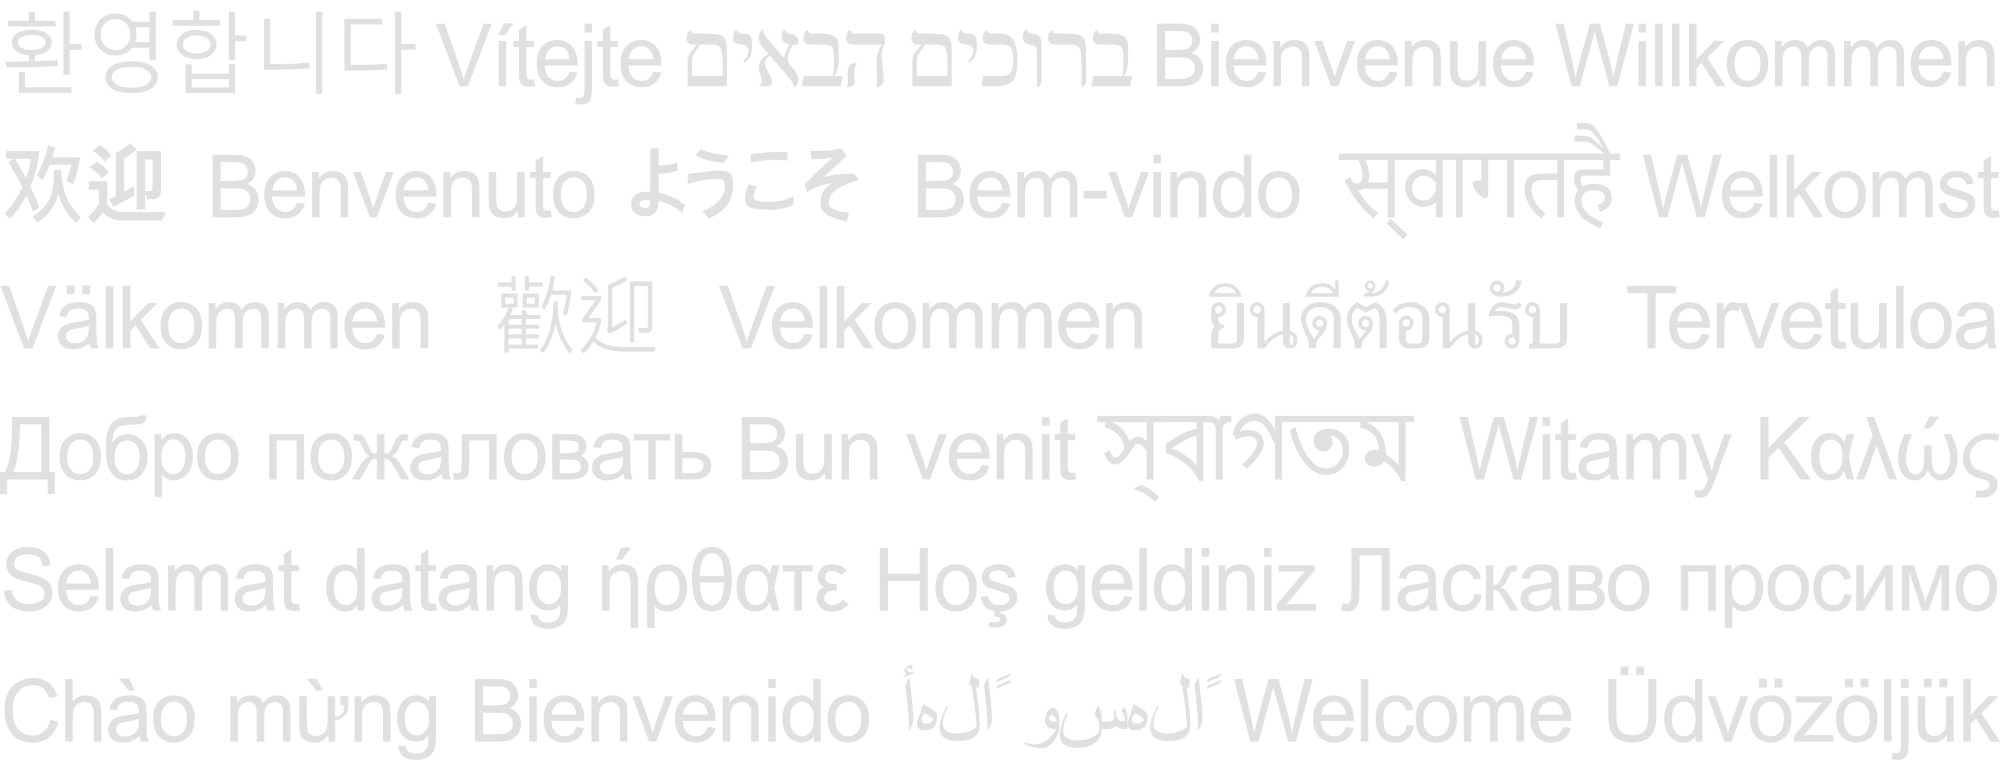
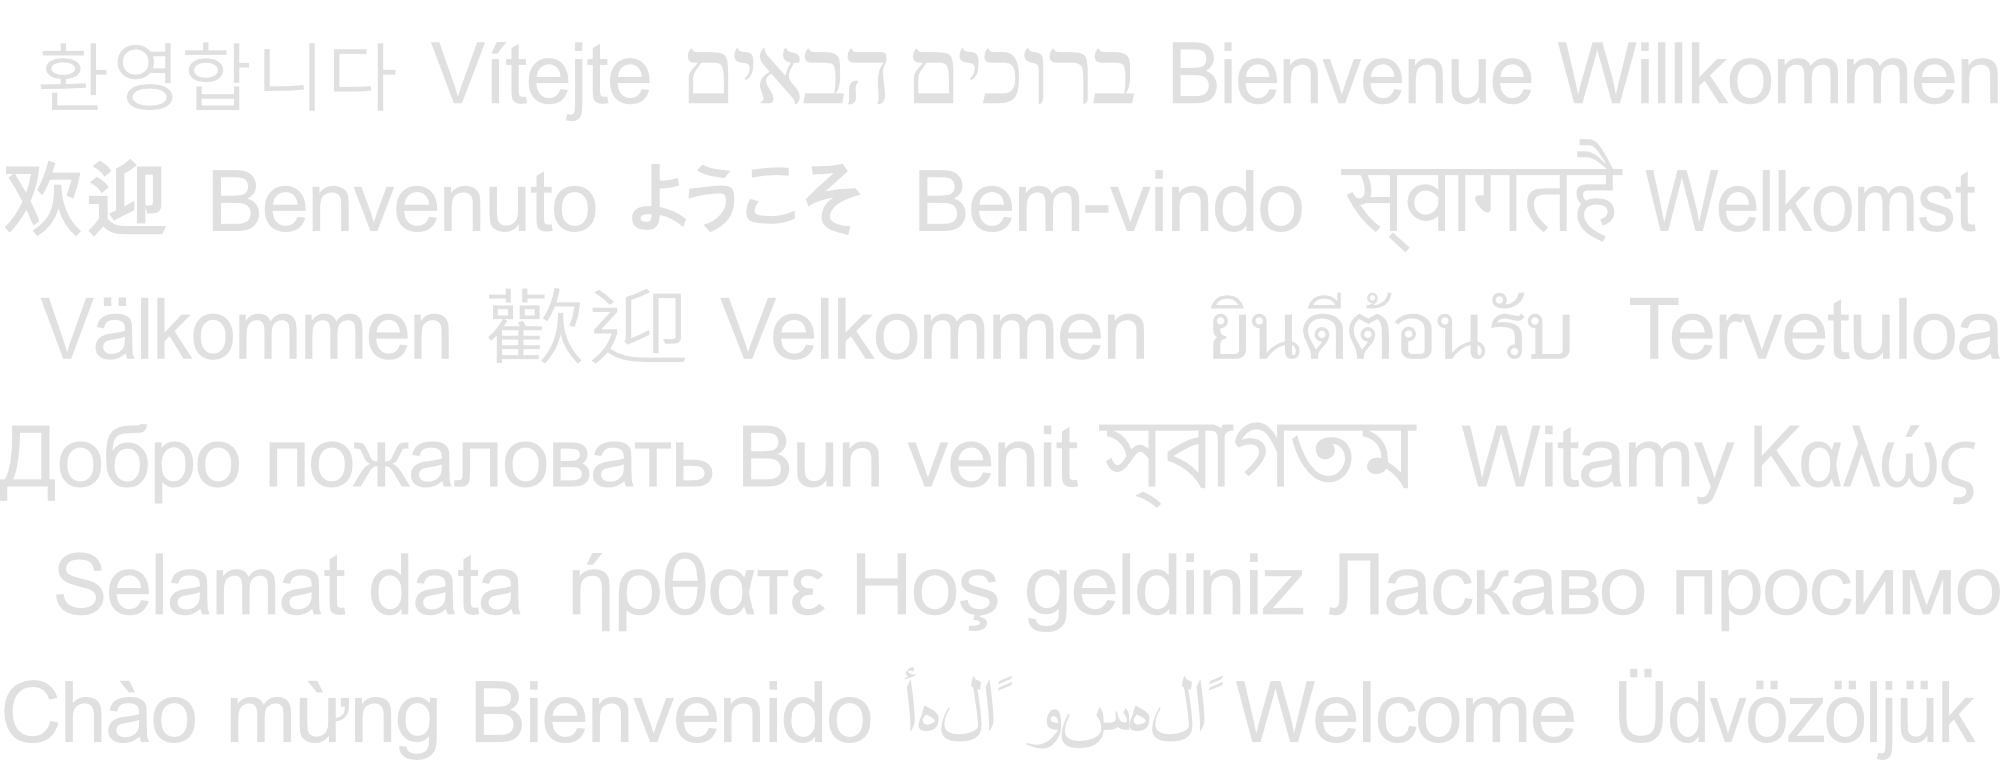
splash screen

diff --git a/static/styles.css b/static/styles.css
@@ -67,7 +67,7 @@ body {
 .app-title .subtitle {
   margin: 0;
   font-size: 14px;
-  color: #0e0e0;
+  color: #0e0e0e; /* Fixed the color value */
 }
 
 .container {
@@ -269,6 +269,7 @@ color: #e0e0e0
     background-image: url('assets/pattern.png');
     background-repeat: repeat;
     background-size: 750px 285px;
+    background-position: 0 0, 375px 142.5px; /* Offset each row by 50% */
     transform: rotate(45deg);
     z-index: -1;
     opacity: 0.1; 

diff --git a/templates/components/transcription_accordion.html b/templates/components/transcription_accordion.html
@@ -1,3 +1,5 @@
+<!-- transcription_accordion.html -->
+ 
 <div class="accordion-item">
   <h2 class="accordion-header" id="headingTranscription">
     <button

diff --git a/templates/components/translation_accordion.html b/templates/components/translation_accordion.html
@@ -1,3 +1,5 @@
+<!-- translation_accordion.html -->
+
 <div class="accordion-item">
   <h2 class="accordion-header" id="headingTranslation">
     <button
